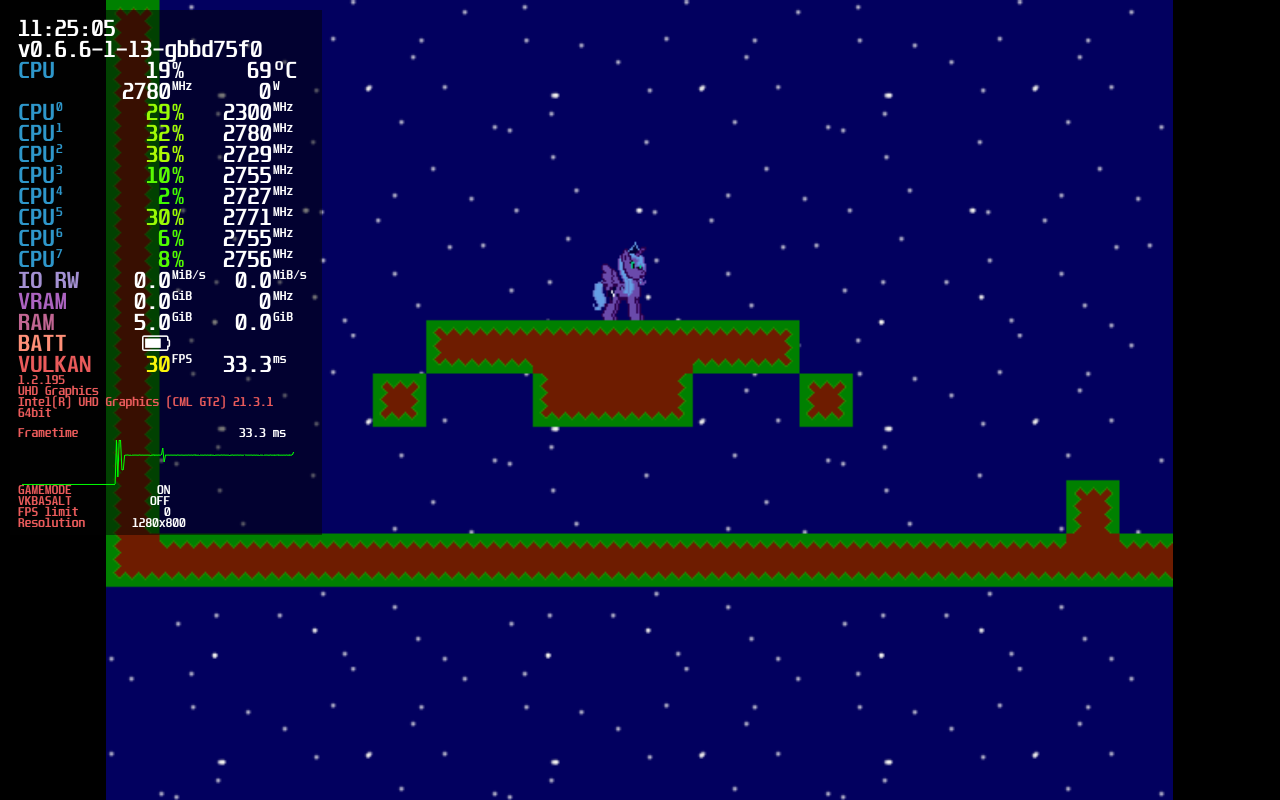
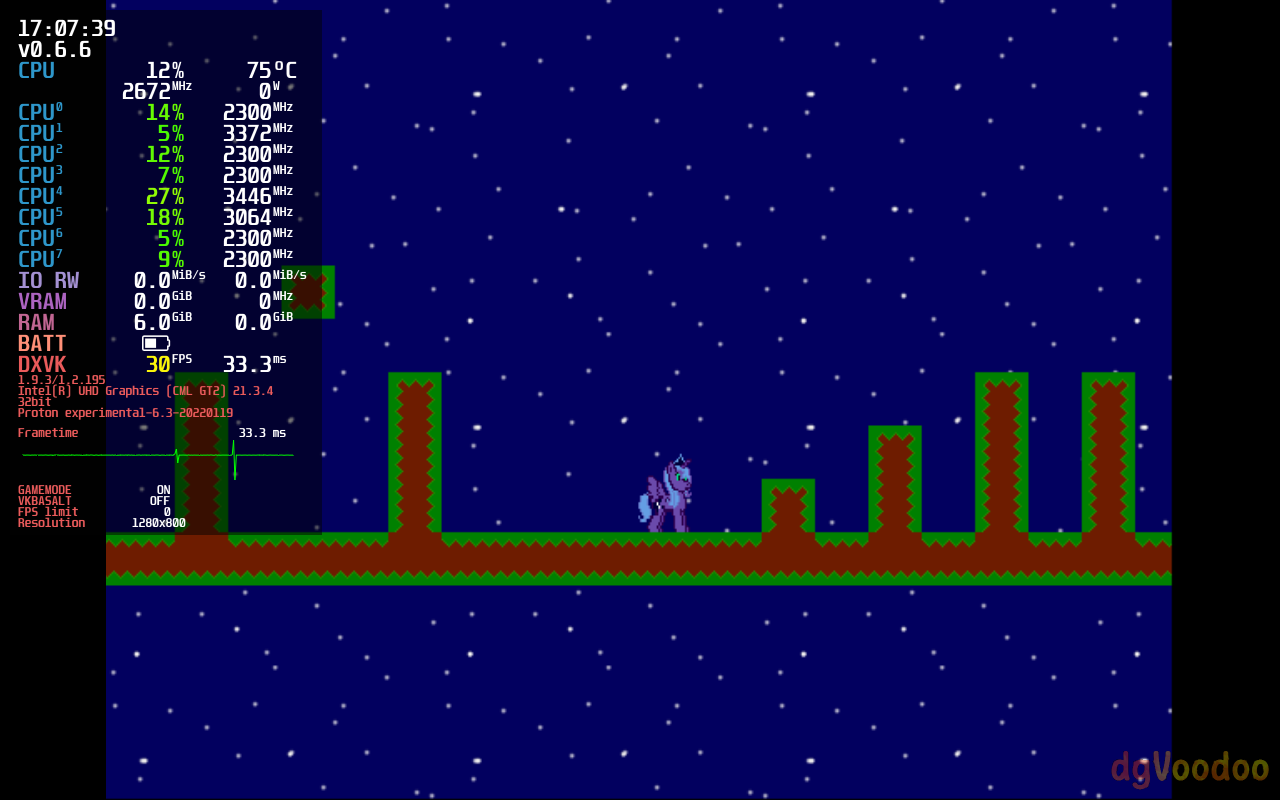
why

diff --git a/pages/projects/linuxnotes.html b/pages/projects/linuxnotes.html
@@ -826,12 +826,12 @@
                     <h3 id="LunaGame">Luna Game</h3>
                     <p>
                     Proton (Any modern version)<br/>
-                    Technology: GameMaker, DirectDraw<br/>
+                    Technology: GameMaker, Direct3D 8<br/>
                     Controller support: None, use Steam Input<br/>
+                    Installation:<br/>
+                     - Attach dgVoodoo2's D3D8 DLL<br/>
                     Notes:<br/>
-                     - Gamescope required for controllers to function.<br/>
-                    TODO:<br/>
-                     - Did Wine 7.0 screw up ddraw's upscaling?<br/>
+                     - See <a href="pages/projects/linuxnotes.html#GameMaker8">GameMaker 8</a>.<br/>
                     <img src="assets/img/projects/linuxnotes/gold.png"><br/>
                     <img class="preview" src="assets/img/projects/linuxnotes/lunagame1.png"><br/>
                     </p>
@@ -2030,6 +2030,90 @@
                     <img src="assets/img/projects/linuxnotes/gold.png"><br/>
                     <img class="preview" src="assets/img/projects/linuxnotes/scratch3.0_1.png"><br/>
                     </p>
+                    <h3 id="LunaGame2">Luna Game 2</h3>
+                    <p>
+                    Proton (Any modern version)<br/>
+                    Technology: GameMaker 8, Direct3D 8<br/>
+                    Controller support: None, use Steam Input<br/>
+                    Installation:<br/>
+                     - Attach dgVoodoo2's D3D8 DLL<br/>
+                    Notes:<br/>
+                     - See <a href="pages/projects/linuxnotes.html#GameMaker8">GameMaker 8</a>.<br/>
+                    <img src="assets/img/projects/linuxnotes/silverp.png"><br/>
+                    <img class="preview" src="assets/img/projects/linuxnotes/lunagame2_1.png"><br/>
+                    </p>
+                    <h3 id="LunaGame3">Luna Game 3</h3>
+                    <p>
+                    Proton (Any modern version)<br/>
+                    Technology: GameMaker 8, Direct3D 8<br/>
+                    Controller support: None, use Steam Input<br/>
+                    Installation:<br/>
+                     - Attach dgVoodoo2's D3D8 DLL<br/>
+                    Notes:<br/>
+                     - See <a href="pages/projects/linuxnotes.html#GameMaker8">GameMaker 8</a>.<br/>
+                    <img src="assets/img/projects/linuxnotes/bronze.png"><br/>
+                    <img class="preview" src="assets/img/projects/linuxnotes/lunagame3_1.png"><br/>
+                    </p>
+                    <h3 id="LunaGame4">Luna Game 4</h3>
+                    <p>
+                    Proton (Any modern version)<br/>
+                    Technology: GameMaker 8, Direct3D 8<br/>
+                    Controller support: None, use Steam Input<br/>
+                    Installation:<br/>
+                     - Attach dgVoodoo2's D3D8 DLL<br/>
+                    Notes:<br/>
+                     - See <a href="pages/projects/linuxnotes.html#GameMaker8">GameMaker 8</a>.<br/>
+                     - Can only be played once. Requires the replay EXE for replays.<br/>
+                    <img src="assets/img/projects/linuxnotes/bronze.png"><br/>
+                    <img class="preview" src="assets/img/projects/linuxnotes/lunagame4_1.png"><br/>
+                    </p>
+                    <h3 id="LunaGame5">Luna Game 5</h3>
+                    <p>
+                    Proton (Any modern version)<br/>
+                    Technology: GameMaker 8, Direct3D 8<br/>
+                    Controller support: None, use Steam Input<br/>
+                    Installation:<br/>
+                     - Attach dgVoodoo2's D3D8 DLL<br/>
+                    Notes:<br/>
+                     - See <a href="pages/projects/linuxnotes.html#GameMaker8">GameMaker 8</a>.<br/>
+                    <img src="assets/img/projects/linuxnotes/bronze.png"><br/>
+                    <img class="preview" src="assets/img/projects/linuxnotes/lunagame5_1.png"><br/>
+                    </p>
+                    <h3 id="LunaGame0">Luna Game 0</h3>
+                    <p>
+                    Proton (Any modern version)<br/>
+                    Technology: GameMaker 8, Direct3D 8<br/>
+                    Controller support: None, use Steam Input<br/>
+                    Installation:<br/>
+                     - Attach dgVoodoo2's D3D8 DLL<br/>
+                    Notes:<br/>
+                     - See <a href="pages/projects/linuxnotes.html#GameMaker8">GameMaker 8</a>.<br/>
+                     - Can only be played once. Requires the replay EXE for replays.<br/>
+                    <img src="assets/img/projects/linuxnotes/gold.png"><br/>
+                    <img class="preview" src="assets/img/projects/linuxnotes/lunagame0_1.png"><br/>
+                    </p>
+                    <h3 id="LunaGameN1">Luna Game -1</h3>
+                    <p>
+                    Proton (Any modern version)<br/>
+                    Technology: GameMaker 8, Direct3D 8<br/>
+                    Controller support: None, use Steam Input<br/>
+                    Installation:<br/>
+                     - Attach dgVoodoo2's D3D8 DLL<br/>
+                    Notes:<br/>
+                     - See <a href="pages/projects/linuxnotes.html#GameMaker8">GameMaker 8</a>.<br/>
+                    <img src="assets/img/projects/linuxnotes/bronze.png"><br/>
+                    <img class="preview" src="assets/img/projects/linuxnotes/lunagamen1_1.png"><br/>
+                    </p>
+                    <h3 id="SDCWin32">Sonic Dreams Collection</h3>
+                    <p>
+                    Proton (Any modern version)<br/>
+                    Technology: Unity, Direct3D<br/>
+                    Controller support: None, use Steam Input<br/>
+                    Notes:<br/>
+                     - Eggman Origin will be unplayable, at least in handheld mode, due to needing the SegaNET executable to also be running in the same prefix<br/>
+                    <img src="assets/img/projects/linuxnotes/bronze.png"><br/>
+                    <img class="preview" src="assets/img/projects/linuxnotes/sdc1.png"><br/>
+                    </p>
                     <br/>
                     <h2 id="Technology">Technology Compatibility</h3>
                     <h3 id="XNA_FNA">XNA/FNA</h3>
@@ -2082,7 +2166,7 @@
                      - Music often times works, but sound effects are completely missing.<br/>
                      - Using Winetricks for dmime allows for sound effects to function, but then music gets interrupted.<br/>
                      - Using Winetricks for the entirety of DSound and DMusic will lead to audio latency of ~0.3 seconds.<br/>
-                     - Also bad performance in a handful of games, despite them being simple 2D games.<br/>
+                     - Also bad performance in a handful of games, despite them being simple 2D games. Fixed with dgVoodoo D3D8.<br/>
                     </p>
                     <h3 id="UE98">Unreal Engine (1998)</h3>
                     <p>
